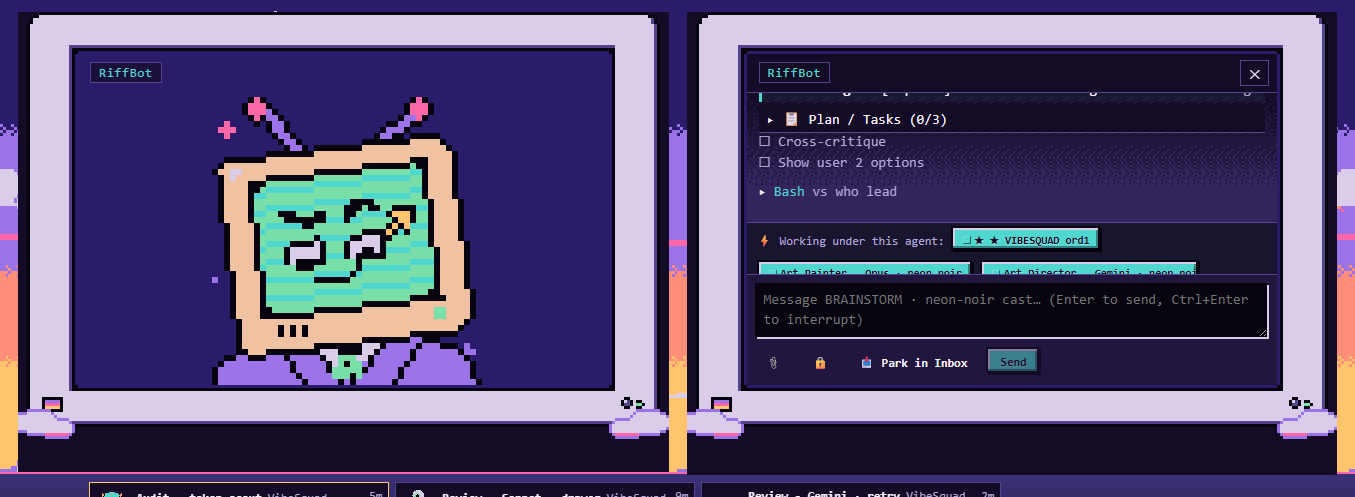
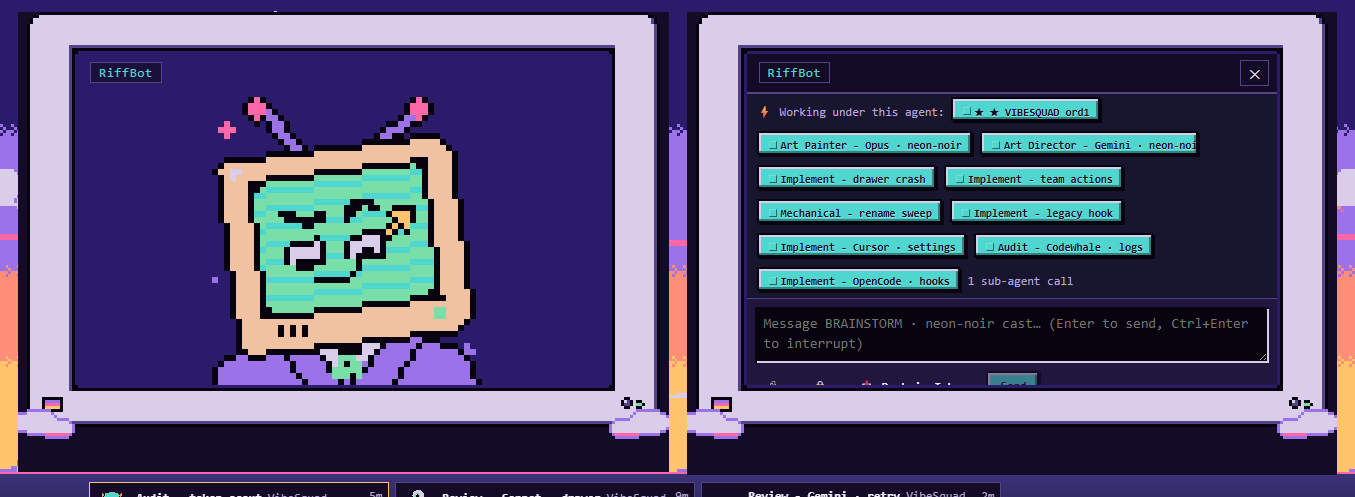
G8 review fixes (Gemini 0H/0M/3L): sky Esc/outside-click yield to popovers, face button names the open bot, chat-only header
- Esc closes the sky chat only when open, not defaultPrevented, and no dialog/menu/listbox/composer-menu is up; outside clicks inside portalled popovers no longer close it
- left TV face button reads 'Close Overlord chat' while the Overlord is open
- chat-only DrawerHeader drops the no-op Dock button and the duplicate x; wrapped working-bar chips no longer clip in the sky panel
- tests for all three; riff-open/overlord-open shots retaken (dark+light, 4k120+1080)

Changed region(s): [[0.5269, 0.1811, 0.9609, 0.7847]]

diff --git a/src/SkyZones.tsx b/src/SkyZones.tsx
@@ -5,7 +5,7 @@
 import { useEffect, useLayoutEffect, useRef, useState } from "react";
 import { DrawerSlot } from "./AgentPanes";
 import type { Pin } from "./pins";
-import { NO_OVERLORD_TEXT, SKY_COLUMNS, SKY_FRAME_URL, SKY_URL, TAKEOVER_FALLBACK, TAKEOVER_URL, faceBg, faceContain, hasFaceMode, skyAssets, skyEffectiveOpen, skyExit, skyFaceClick, skyRiffMode, skyZonesFor, takeoverVisible, type SkyCan, type SkyOpen, type SkyZone, type TakeoverModel } from "./skyZonesLogic";
+import { NO_OVERLORD_TEXT, SKY_COLUMNS, SKY_FRAME_URL, SKY_POPOVER_SELECTOR, SKY_URL, TAKEOVER_FALLBACK, TAKEOVER_URL, faceBg, faceContain, hasFaceMode, skyAssets, skyEffectiveOpen, skyEscCloses, skyExit, skyFaceClick, skyOutsideCloses, skyRiffMode, skyZonesFor, takeoverVisible, type SkyCan, type SkyOpen, type SkyZone, type TakeoverModel } from "./skyZonesLogic";
 import type { FaceBot, FaceMode } from "./squadFloorLogic";
 import type { TeamView } from "./teams";
 import { useBotFace, useFacesModel, useImageOk, usePrefersReducedMotion, useSkyCrtModel, useTakeoverClock, useTakeoverModel, useTheme } from "./useBotFace";
@@ -102,6 +102,7 @@ function Zone({
   taken = false,
   clickable = false,
   isOpen = false,
+  openLabel,
   onFace,
   onClose,
   onSuccessor,
@@ -121,6 +122,8 @@ function Zone({
   clickable?: boolean;
   /** Panel: this bot's chat is the one showing. TV: a chat is open (aria-expanded). */
   isOpen?: boolean;
+  /** The bot whose chat is open (the left TV shows its face): names the close button. Defaults to this TV's bot. */
+  openLabel?: string;
   onFace?: () => void;
   onClose?: () => void;
   /** The @art sky-CRT bezel as a border-image style (from sky-crt.json + PNG) when both exist; null → the CSS bezel. */
@@ -132,6 +135,7 @@ function Zone({
   busy?: boolean;
 }) {
   const label = LABEL[zone.bot];
+  openLabel ??= label;
   const off = zone.bot === "overlord" && !zone.agentId; // a closed Overlord keeps its zone (history + Resume)
   return (
     <section
@@ -149,7 +153,7 @@ function Zone({
           type="button"
           className="sky-face-hit"
           data-testid={`sky-face-hit-${zone.bot}`}
-          aria-label={isOpen ? `Close ${label} chat` : `Open ${label} chat`}
+          aria-label={isOpen ? `Close ${openLabel} chat` : `Open ${label} chat`}
           aria-expanded={isOpen}
           onClick={onFace}
         />
@@ -233,10 +237,12 @@ export function SkyZones({
   // Esc, or a click anywhere outside the sky, closes whatever is open. Clicks inside are the faces' / chat's / ✕'s own handlers.
   useEffect(() => {
     const down = (e: PointerEvent) => {
-      if (!(e.target instanceof Node) || !root.current?.contains(e.target)) setOpen(skyExit);
+      const t = e.target instanceof Element ? e.target : null;
+      if (skyOutsideCloses(!!t && !!root.current?.contains(t), !!t?.closest(SKY_POPOVER_SELECTOR)) || !t) setOpen(skyExit);
     };
     const key = (e: KeyboardEvent) => {
-      if (e.key !== "Escape" || openRef.current === null) return; // at rest Esc is the app's (up to Squads Home)
+      // At rest Esc is the app's (up to Squads Home); with a popover/dialog up (slash menu, modal) Esc dismisses that first.
+      if (e.key !== "Escape" || !skyEscCloses(openRef.current, e.defaultPrevented, !!document.querySelector(`${SKY_POPOVER_SELECTOR}:not([hidden])`))) return;
       e.preventDefault(); // this Esc closed the chat; the app's own Esc handler honours defaultPrevented
       setOpen(skyExit);
       const a = document.activeElement;
@@ -262,7 +268,7 @@ export function SkyZones({
       data-open={open ?? "none"}
       style={{ ["--sky-cols" as string]: SKY_COLUMNS, ...(skyUrl ? { backgroundImage: `url(${skyUrl})` } : null) }}
     >
-      <Zone zone={zones.riffbot} faces={faces} frameStyle={frameStyle} force={skyRiffMode(open, hasFaceMode(faces, "riffbot", "scared"))} takeover={takeover} taken={open === "overlord"} clickable={clickable("riffbot")} isOpen={open !== null} onFace={() => onFace("riffbot")} onSuccessor={onSuccessor} onSpinUp={spinRiff} />
+      <Zone zone={zones.riffbot} faces={faces} frameStyle={frameStyle} force={skyRiffMode(open, hasFaceMode(faces, "riffbot", "scared"))} takeover={takeover} taken={open === "overlord"} clickable={clickable("riffbot")} isOpen={open !== null} openLabel={open ? LABEL[open] : undefined} onFace={() => onFace("riffbot")} onSuccessor={onSuccessor} onSpinUp={spinRiff} />
       <Zone zone={zones.overlord} faces={faces} frameStyle={frameStyle} clickable={clickable("overlord")} isOpen={open === "overlord"} onFace={() => onFace("overlord")} onSuccessor={onSuccessor} onSpinUp={spinOverlord} busy={overlordBusy} />
       <Zone panel zone={zones.riffbot} faces={faces} frameStyle={frameStyle} isOpen={open === "riffbot"} onClose={() => setOpen(skyExit)} onSuccessor={onSuccessor} onSpinUp={spinRiff} />
       <Zone panel zone={zones.overlord} faces={faces} frameStyle={frameStyle} isOpen={open === "overlord"} onClose={() => setOpen(skyExit)} onSuccessor={onSuccessor} onSpinUp={spinOverlord} busy={overlordBusy} />

diff --git a/src/skyZonesLogic.ts b/src/skyZonesLogic.ts
@@ -243,6 +243,12 @@ export function skyFaceClick(open: SkyOpen, tv: FaceBot, can: SkyCan): SkyOpen {
 export const skyExit = (_open: SkyOpen): SkyOpen => null;
 /** The Overlord going away (closed, killed) while its chat is open drops back to rest; an open RiffBot with no chat agent too. */
 export const skyEffectiveOpen = (open: SkyOpen, can: SkyCan): SkyOpen => (open && can[open] ? open : null);
+/** Anything that owns Esc / outside clicks before the sky does: modals, menus, the composer's slash/mention menus, the needs-you popover. */
+export const SKY_POPOVER_SELECTOR = ".modal-back, [role='dialog'], [role='menu'], [role='listbox'], .composer-menu, .attn-pop, .pin-menu-list";
+/** Esc closes the sky chat only when it is open, nothing already handled the key, and no popover/dialog is up to be dismissed first. */
+export const skyEscCloses = (open: SkyOpen, defaultPrevented: boolean, popoverOpen: boolean): boolean => open !== null && !defaultPrevented && !popoverOpen;
+/** A pointerdown closes the sky chat only when it lands outside the sky AND outside any (portalled) popover/dialog. */
+export const skyOutsideCloses = (insideSky: boolean, insidePopover: boolean): boolean => !insideSky && !insidePopover;
 /** Forced RiffBot face while the Overlord has taken it over: `scared`, or `idle` when faces.json has none; null → normal talk/needs/blink. */
 export const skyRiffMode = (open: SkyOpen, riffHasScared: boolean): Extract<FaceMode, "scared" | "idle"> | null => (open === "overlord" ? (riffHasScared ? "scared" : "idle") : null);
 export const hasFaceMode = (faces: FacesModel | null, bot: FaceBot, mode: FaceMode): boolean => !!faces?.bots[bot]?.[mode]?.length;

diff --git a/src/DrawerHeader.tsx b/src/DrawerHeader.tsx
@@ -540,6 +540,8 @@ export type DrawerHeaderProps = {
   att: { tone: string; reason: string } | null;
   dockOpen: boolean;
   onToggleDock: () => void;
+  /** Sky chat panel: no dock to toggle and the panel has its own ✕, so both header buttons are dropped. */
+  chatOnly?: boolean;
 };
 
 function download(name: string, mime: string, body: string) {
@@ -692,6 +694,7 @@ export function DrawerHeader({
   att,
   dockOpen,
   onToggleDock,
+  chatOnly = false,
 }: DrawerHeaderProps) {
   const [modeBusy, setModeBusy] = useState(false);
   const [modelValue, setModelValue] = useState(agent.model ?? "");
@@ -1172,14 +1175,14 @@ export function DrawerHeader({
   );
   const dockBtns = (
     <>
-          <button
+          {!chatOnly && <button
             className={`btn ghost dock-toggle-btn${dockOpen ? " on" : ""}`}
             title={dockOpen ? "Close side dock" : "Open: Changes / Files / Terminal / Scripts"}
             onClick={onToggleDock}
           >
             Dock {dockOpen ? "▶" : "◀"}
-          </button>
-          {!compact && (
+          </button>}
+          {!compact && !chatOnly && (
             <button className="btn ghost" onClick={onClose}>
               ✕
             </button>

diff --git a/src/styles.css b/src/styles.css
@@ -4776,6 +4776,8 @@ button.project-file-name:hover { text-decoration: underline; }
 /* Chat panel: the whole screen, under a strip for the name tag and the ✕. */
 .sky-chat-panel .sky-crt-body { top: 38px; background: var(--bg); border-top: 1px solid var(--line); }
 .sky-chat-panel { background: var(--bg); }
+/* The chips' bevel is taller than the bar's 52px cap: let a wrapped second row show instead of clipping it. */
+.sky-chat-panel .drawer-subagents-bar { max-height: none; overflow-y: visible; }
 /* TV with no agent: the Overlord's static fills the screen; RiffBot's face stays and its Spin Up sits on a bottom strip. */
 .sky-zone.is-off .sky-crt-body { top: 0; }
 .sky-zone-riffbot:not(.sky-chat-panel) .sky-crt-body:has(.sky-static) { background: color-mix(in srgb, var(--bg) 82%, transparent); border-top: 1px solid var(--line); }

diff --git a/src/AgentDrawer.tsx b/src/AgentDrawer.tsx
@@ -642,6 +642,7 @@ export const AgentDrawer = memo(function AgentDrawer({ agent, onClose, onSuccess
         att={att}
         dockOpen={dockOpen}
         onToggleDock={() => !chatOnly && setDockOpen((v) => !v)}
+        chatOnly={chatOnly}
       />
 
       {agent.pendingPermissions?.map((p) => (
